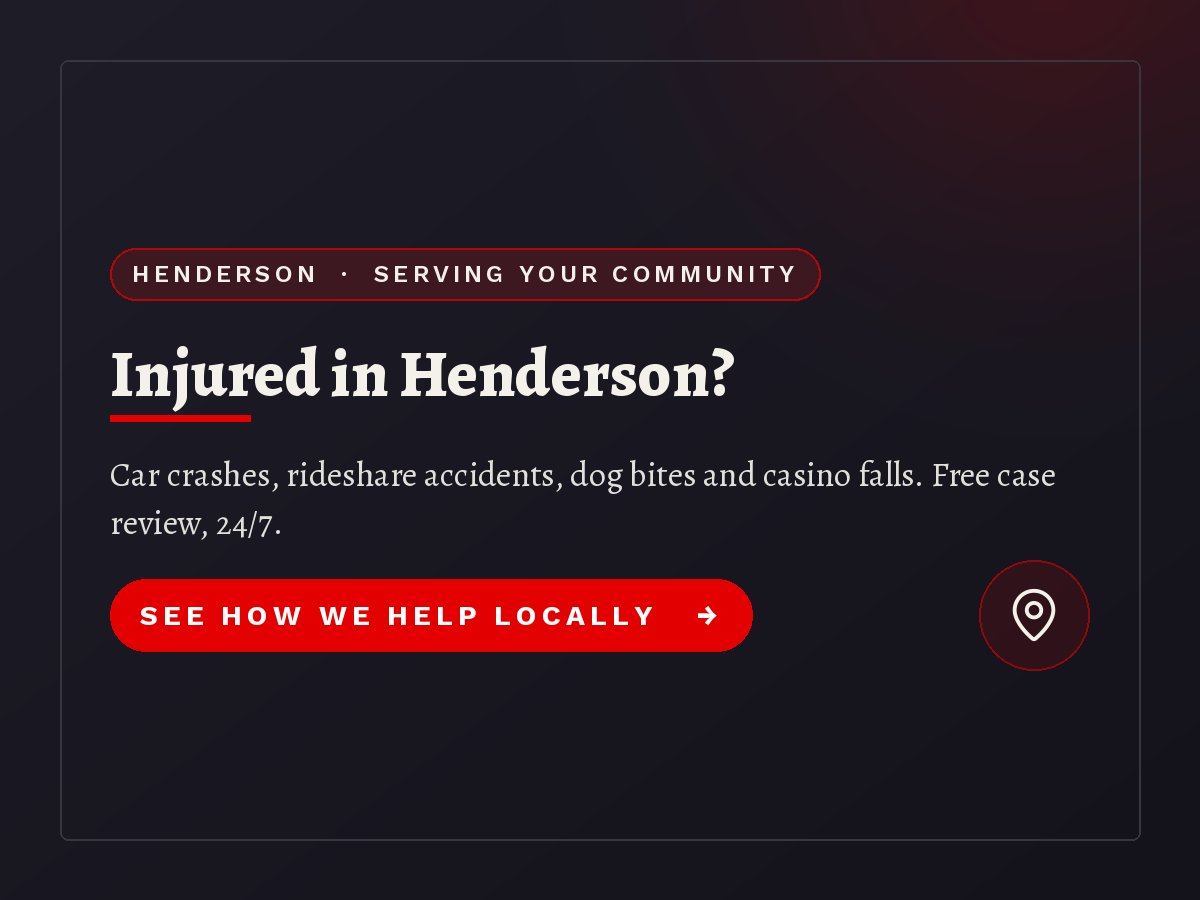
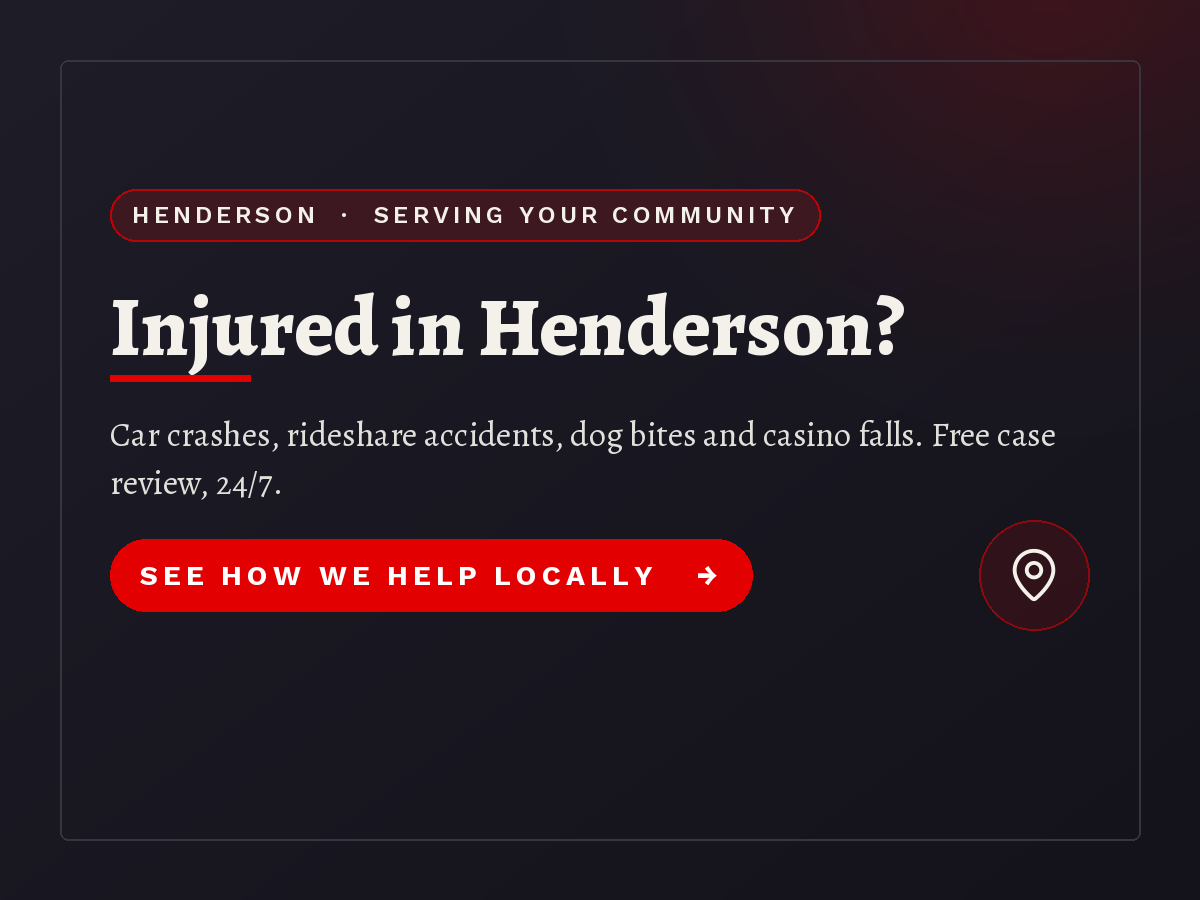
Area posts v4.1: raised, larger title, manual teaser breaks; Henderson v2
Claude-Session: https://claude.ai/code/session_0133BfYy2AqUv4ev1Ui9KePS

Changed region(s): [[0.0925, 0.1867, 0.8942, 0.7467], [0.8017, 0.5289, 0.925, 0.7467]]

diff --git a/kit/render.py b/kit/render.py
@@ -150,17 +150,20 @@ def blog_post(eyebrow, title, teaser, icon, out, cta=None):
     bf = font("Alegreya.ttf", 34, 400)
     cf = font("WorkSans.ttf", 28, 700)
     cta = cta or "READ THE FULL GUIDE"
-    size = 66
+    # Area posts are short: bigger title, block centered in the band that
+    # survives the GBP top crop (y=0..690) and the center crop (y=105..795).
+    area = cta.startswith("SEE HOW")
+    size = 84 if area else 66
     while True:
         tf = font("Alegreya.ttf", size, 800)
         lines = wrap(d, title, tf, 800)
-        if len(lines) <= 3 or size <= 56:
+        if len(lines) <= (2 if area else 3) or size <= 56:
             break
         size -= 4
-    tlines = wrap(d, teaser, bf, 960)[:2]
+    tlines = [l for part in teaser.split("\n") for l in wrap(d, part, bf, 960)][:2]
     lh = int(size * 1.05)
     block = 52 + 28 + lh * len(lines) + 18 + 6 + 30 + 48 * len(tlines) + 32 + 72
-    y = max(150, (H - block) // 2)
+    y = max(120, 400 - block // 2) if area else max(150, (H - block) // 2)
     # eyebrow pill
     tw = sum(d.textlength(ch, font=ef) + 4 for ch in eyebrow)
     d.rounded_rectangle([110, y, 110 + tw + 44, y + 52], radius=26, fill=mix(0.16, RED), outline=mix(0.75, RED), width=2)

diff --git a/AREAS.md b/AREAS.md
@@ -39,8 +39,8 @@ Go down the queue top to bottom. Skip any area that already has an `(area)` row 
 - Workers' comp only as third-party claims. No promised results.
 
 ## Image (same approved v4 design)
-job.json entry: `{"eyebrow":"<AREA>  ·  SERVING YOUR COMMUNITY","title":"Injured in <Area>?","teaser":"<1–2 sentences, ≤ 2 lines>","icon":"pin","cta":"SEE HOW WE HELP LOCALLY","out":"../images/posts/gbp-area-<area-slug>.png"}`
-Look at the PNG before using it.
+job.json entry: `{"eyebrow":"<AREA>  ·  SERVING YOUR COMMUNITY","title":"Injured in <Area>?","teaser":"<line 1: practice focus>\\n<line 2: free case review line>","icon":"pin","cta":"SEE HOW WE HELP LOCALLY","out":"../images/posts/gbp-area-<area-slug>.png"}`
+Area layout (v4.1): bigger title, block centered at y≈400 so it sits right in the GBP top crop (0–690) and center crop. Use `\\n` in the teaser for a clean 2-line break. Look at the PNG before using it.
 
 ## Publish + log
 - Upload to WordPress with alt text: `Injured in <Area>? Howard Injury Law personal injury help serving <Area>, Nevada` (for CA/AZ/CO: `Howard Injury Law working with local counsel in <State>`).
